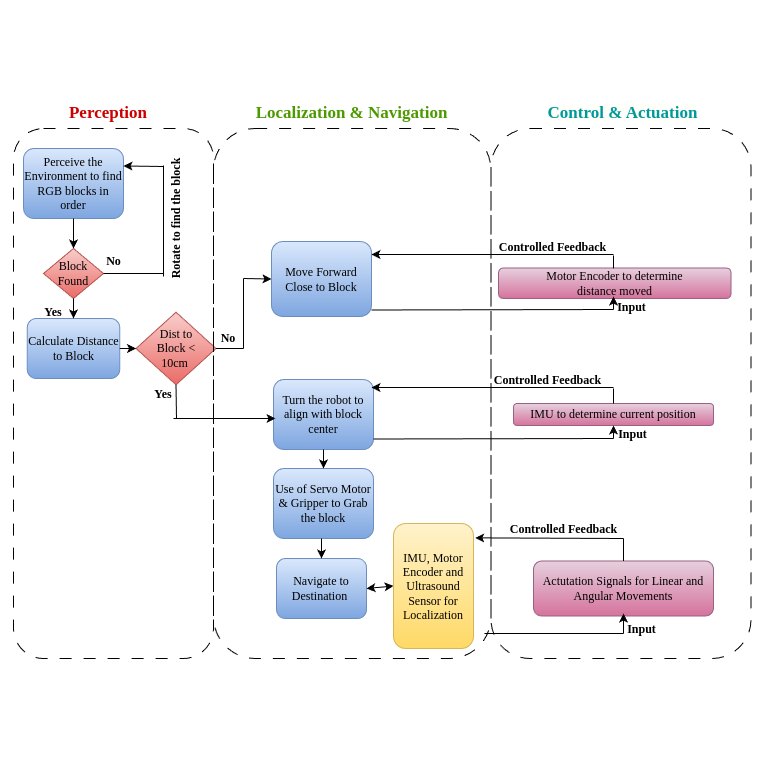
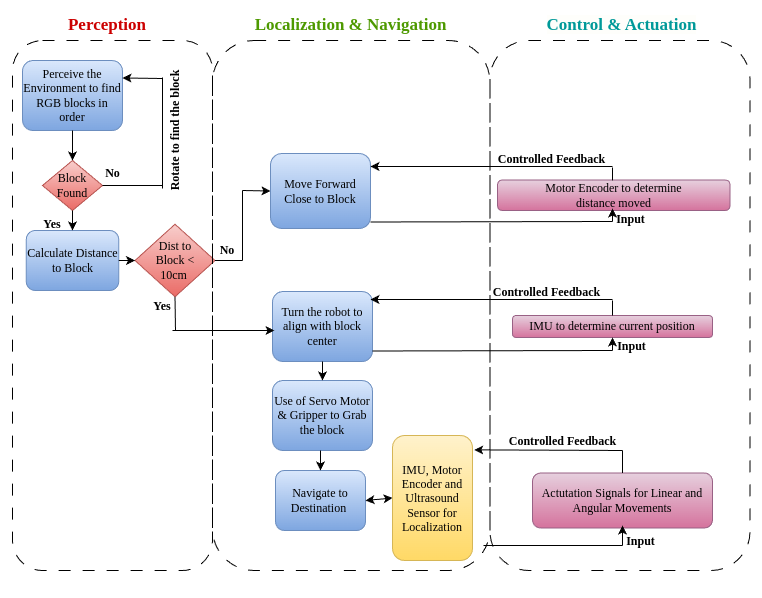
Updation of Repo With Readme1

diff --git a/README.md b/README.md
@@ -22,7 +22,7 @@ The key hardware components of the robot are:
 The autonomous mobile robot operates independently, performing tasks by integrating fundamental robotics principles such as perception, localization, control, and navigation. The following process flow diagram offers an overview of how the robot accomplishes pick-and-place tasks through the integration of both software and hardware components:
 
 <p align="center">
-  <img src="images/process_flow.png" alt="Autonomous Robot Process Flow" width="850" height="550">
+  <img src="images/process_flow.png" alt="Autonomous Robot Process Flow" width="850" height="750">
 </p>
 
 ### Code : 
